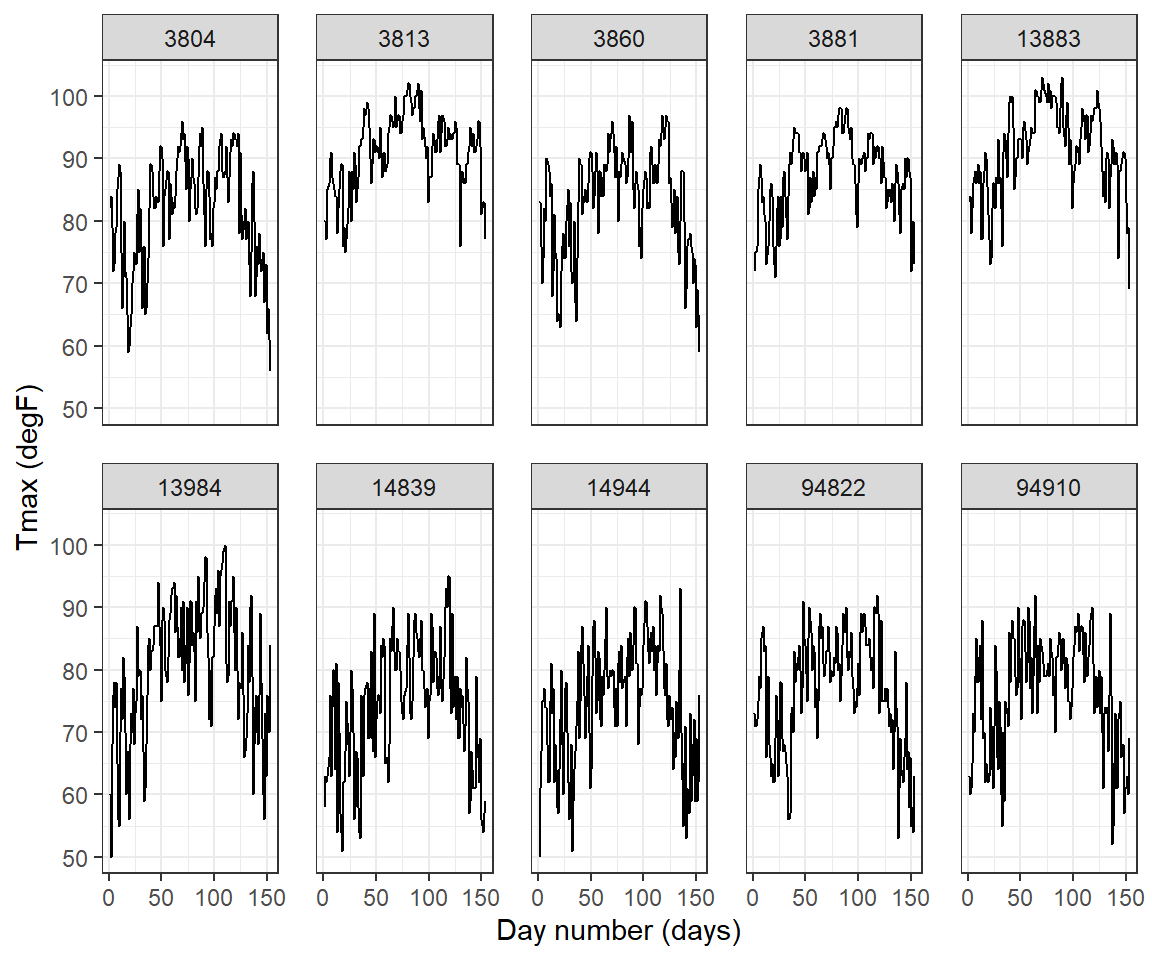
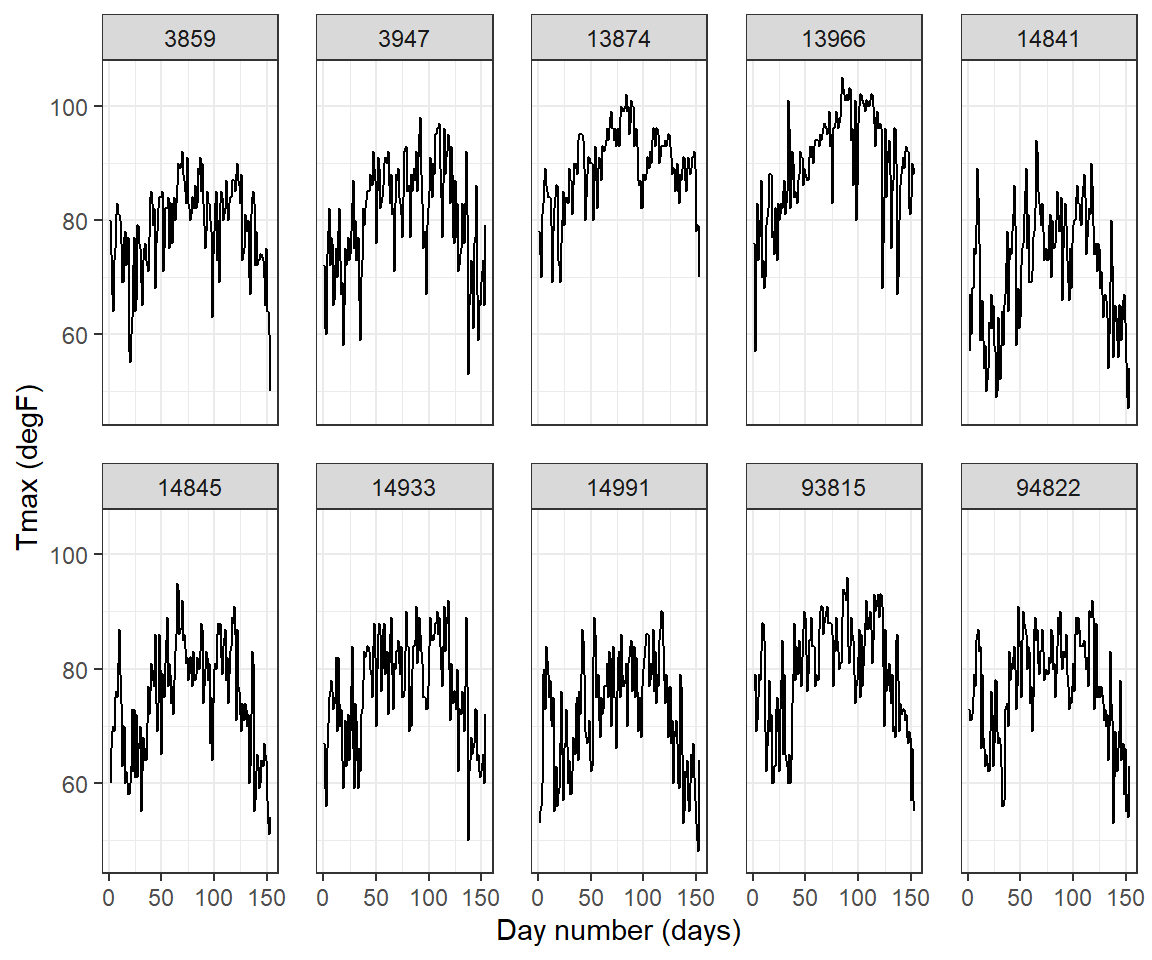
Updated May 24th

diff --git a/Week11.html b/Week11.html
@@ -362,7 +362,7 @@ $(document).ready(function () {
 <ul>
 <li>z: temperature (F)</li>
 <li>id: weather station ID.</li>
-<li>t: dates.</li>
+<li>t: the same as the column <em>day</em></li>
 <li>We do not really used column <em>julian</em> nor <em>proc</em></li>
 </ul></li>
 </ul>
@@ -415,13 +415,13 @@ NOAA_plot</code></pre>
 UIDs_sub &lt;- sample(UIDs, 10)                # sample 10 IDs
 Tmax_sub &lt;- filter(Tmax, id %in% UIDs_sub)  # subset data
 head(Tmax_sub)</code></pre>
-<pre><code>##   julian year month day   id  z proc   lat       lon       date t
-## 1 728050 1993     5   1 3804 82 Tmax 39.35 -81.43333 1993-05-01 1
-## 2 728051 1993     5   2 3804 84 Tmax 39.35 -81.43333 1993-05-02 2
-## 3 728052 1993     5   3 3804 79 Tmax 39.35 -81.43333 1993-05-03 3
-## 4 728053 1993     5   4 3804 72 Tmax 39.35 -81.43333 1993-05-04 4
-## 5 728054 1993     5   5 3804 73 Tmax 39.35 -81.43333 1993-05-05 5
-## 6 728055 1993     5   6 3804 78 Tmax 39.35 -81.43333 1993-05-06 6</code></pre>
+<pre><code>##   julian year month day   id  z proc  lat       lon       date t
+## 1 728050 1993     5   1 3859 80 Tmax 37.3 -81.21667 1993-05-01 1
+## 2 728051 1993     5   2 3859 74 Tmax 37.3 -81.21667 1993-05-02 2
+## 3 728052 1993     5   3 3859 67 Tmax 37.3 -81.21667 1993-05-03 3
+## 4 728053 1993     5   4 3859 64 Tmax 37.3 -81.21667 1993-05-04 4
+## 5 728054 1993     5   5 3859 73 Tmax 37.3 -81.21667 1993-05-05 5
+## 6 728055 1993     5   6 3859 75 Tmax 37.3 -81.21667 1993-05-06 6</code></pre>
 <p>Next, time-series is plotted.</p>
 <pre class="r"><code>## ------------------------------------------------------------------------
 TmaxTS &lt;- ggplot(Tmax_sub) +
